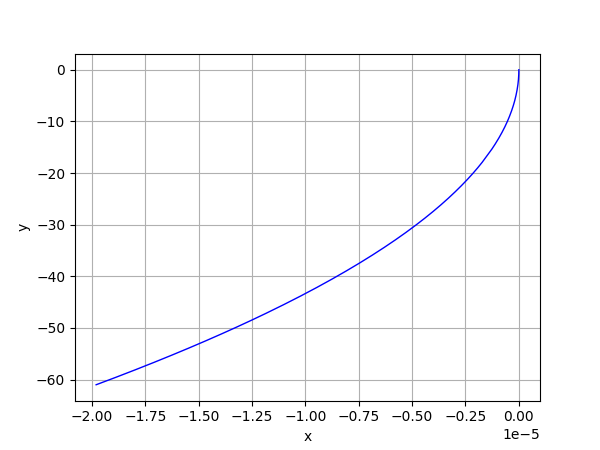
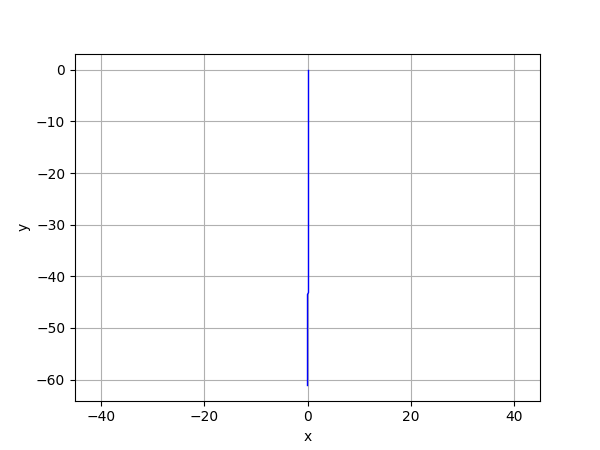
Primeira versão "funcional"

diff --git a/Model.py b/Model.py
@@ -1,29 +1,165 @@
-from math import cos, sin, tan
+import numpy as np
+from scipy.integrate import odeint
+from pylab import figure, plot, xlabel, ylabel, grid, legend, title, savefig, axis
+from matplotlib.font_manager import FontProperties
 
-from libs import normalise_angle
+counter = 0
 
+# non-linear lateral bicycle model
+class NonLinearBycicle():
+    def __init__(self, parameters, val_0):
+        self.max_steer = np.radians(parameters[0])   
+        self.m = parameters[1]             
+        self.Iz = parameters[2]            
+        self.lf = parameters[3]
+        self.lr = parameters[4]
+        self.Lw = parameters[5]
+        self.r = parameters[6]
+        self.mi = parameters[7]
+        self.C_tau = parameters[8]
+        self.C_alpha = parameters[9]
+        self.Fz = parameters[10]
+        self.min_v = parameters[11]
+        self.throttle2omega = parameters[12]
 
-class KinematicBicycleModel:
-    def __init__(self, wheelbase: float, max_steer: float, delta_time: float=0.05): #objeto
-
-        self.delta_time = delta_time
-        self.wheelbase = wheelbase
-        self.max_steer = max_steer
-
-
-    def update(self, x: float, y: float, yaw: float, velocity: float, acceleration: float, steering_angle: float) -> tuple[float, ...]:
+        self.x = val_0[0]
+        self.y = val_0[1]
+        self.psi = val_0[2]
+        self.x_p = val_0[3]
+        self.y_p = val_0[4]
+        self.psi_p = val_0[5]
+        self.x_pp = val_0[6]
+        self.y_pp = val_0[7]
+        self.psi_pp = val_0[8]
+        self.delta_p = val_0[9]
+        self.throttle = val_0[10]
         
-        new_velocity = velocity + self.delta_time * acceleration
+        self.delta_old = self.delta_p
 
-        # Limit steering angle to physical vehicle limits       
-        steering_angle = -self.max_steer if steering_angle < -self.max_steer else self.max_steer if steering_angle > self.max_steer else steering_angle
+        self.f_w = wheel(self.lf, 0.0, self.mi, self.r, self.mi, self.C_tau, self.C_alpha, self.Fz, self.throttle2omega)
+        self.r_w = wheel(0.0, self.lr, self.mi, self.r, self.mi, self.C_tau, self.C_alpha, self.Fz, self.throttle2omega)
+        self.f_w.update(self.throttle[0], self.delta_p, self.psi_p)
+        self.r_w.update(self.throttle[0], 0.0, self.psi_p)    
 
-        # Compute the angular velocity
-        angular_velocity = new_velocity*tan(steering_angle) / self.wheelbase
+    def run(self, throttle, delta, t, ode_p):
+        counter = 0.0
+        abserr, relerr, _, _ = ode_p
 
-        # Compute the final state using the discrete time model
-        new_x   = x + velocity*cos(yaw)*self.delta_time
-        new_y   = y + velocity*sin(yaw)*self.delta_time
-        new_yaw = normalise_angle(yaw + angular_velocity*self.delta_time)
-        
-        return new_x, new_y, new_yaw, new_velocity, steering_angle, angular_velocity
+        delta = np.clip(delta, -self.max_steer, self.max_steer)
+  
+        #self.x_pp = (self.f_w.Fx + self.r_w.Fx)/self.m + self.psi_p*self.y_p
+        #self.y_pp = (self.f_w.Fy + self.r_w.Fy)/self.m + self.psi_p*self.x_p
+        #self.psi_pp = (self.lf*self.f_w.Fy - self.lr*self.r_w.Fy)/self.Iz
+        #self.delta_p = self.delta_old - delta
+        #self.delta_old = delta
+
+        coef = [self.f_w, self.r_w, self.m, self.Iz, throttle, delta]
+        val_0 = [self.x_p, self.x_pp, self.y_p, self.y_pp, self.psi_p, self.psi_pp]
+
+        # Call the ODE solver.
+        wsol = odeint(vectorfield, val_0, t, args=(coef,),
+                    atol=abserr, rtol=relerr)
+
+        with open('sim.dat', 'w') as f:
+            # Print & save the solution.
+            for t1, w1 in zip(t, wsol):
+                print(t1, w1[0], w1[1], w1[2], w1[3], w1[4], w1[5], file=f)
+
+    def plot(self):
+        t, x, xp, y, yp, psi, psip= np.loadtxt('sim.dat', unpack=True)
+
+        figure(1, figsize=(6, 4.5))
+
+        xlabel('x')
+        ylabel('y')
+        grid(True)
+        lw = 1
+        axis('equal')
+
+        plot(x, y, 'b', linewidth=lw)
+        savefig('sim.png', dpi=100)
+
+class wheel():
+    def __init__(self, lf, lr, Lw, r, mi, C_tau, C_alpha, Fz, throttle2omega):
+        self.lf = lf
+        self.lr = lr
+        self.Lw = Lw
+        self.r = r
+        self.mi = mi
+        self.C_tau = C_tau
+        self.C_alpha = C_alpha
+        self.Fz = Fz
+        self.throttle2omega = throttle2omega
+
+    def update(self, throttle, delta, psi_p):
+        omega = self.throttle2omega*throttle
+        Vx = omega*self.r
+        Vy = omega*self.r
+
+        if throttle > 0:
+            tau = (self.r*omega - Vx)/(self.r*Vx)
+        if throttle <= 0:
+            tau = self.r*omega - Vx/np.abs(Vx)
+
+        if(self.lr != 0):
+            signal = -1
+        elif(self.lf != 0):
+            signal = 1
+
+        numerador = Vy + self.lf * psi_p - self.lr * psi_p
+        denominador = Vx + signal*self.Lw/2 * psi_p
+
+        theta_V = np.arctan(numerador/denominador)
+        alpha = delta - theta_V
+
+        C_lambda = (self.mi * self.Fz*(1+tau))/(2*np.sqrt(self.C_tau*tau)**2 + self.C_alpha*np.tan(alpha)**2) 
+        if C_lambda < 1:
+            f_C_lambda = (2-C_lambda)*C_lambda
+        else:
+            f_C_lambda = 1 
+
+        Fxp = self.C_tau *(tau/(1-tau))*f_C_lambda
+        Fyp = self.C_alpha*(np.tan(alpha)/(1-tau))*f_C_lambda
+
+        self.Fx = Fxp*np.cos(delta) - Fyp*np.sin(delta)
+        self.Fy = Fxp*np.sin(delta) + Fyp*np.cos(delta)
+        print(self.Fx, self.Fy)
+
+def vectorfield(w, t, coef):
+    """
+    Defines the differential equations for the coupled system.
+
+    Arguments:
+        w :  vector of the state variables:
+                  w = [x_p, x_pp, y_p, y_pp, psi_p, psi_pp]
+        t :  counter
+        p :  vector of the parameters:
+                  p = [Fxf, Fxr, Fyf, Fyr, lf, lr, m, Iz]
+    """
+    x, xp, y, yp, psi, psip = w
+    f_w, r_w, m, Iz, throttle, delta = coef
+
+    global counter 
+    print(counter)
+    counter = counter + 1
+
+    f_w.update(throttle[counter], delta[counter], psip)
+    r_w.update(throttle[counter], 0.0, psip)    
+
+    Fxf = f_w.Fx
+    Fyf = f_w.Fy
+    Fxr = r_w.Fx
+    Fyr = r_w.Fy
+    lf = f_w.lf
+    lr = r_w.lr
+
+    # Create f = (x',xp',y',yp',psi',psip'):
+    f = [xp,
+         (Fxf + Fxr)/m + psip*yp,
+         yp,
+         (Fyf + Fyr)/m + psip*xp,
+         psip,
+         (lf*Fyf - lr*Fyr)*Iz]
+    print(f)
+    return f
+    

diff --git a/model.py b/model.py
@@ -103,14 +103,14 @@ class wheel():
 
         if(self.lr != 0):
             signal = -1
-        if(self.lf != 0):
+        elif(self.lf != 0):
             signal = 1
 
         numerador = Vy + self.lf * psi_p - self.lr * psi_p
         denominador = Vx + signal*self.Lw/2 * psi_p
 
-        self.theta_V = np.arctan(numerador/denominador)
-        alpha = delta - self.theta_V
+        theta_V = np.arctan(numerador/denominador)
+        alpha = delta - theta_V
 
         C_lambda = (self.mi * self.Fz*(1+tau))/(2*np.sqrt(self.C_tau*tau)**2 + self.C_alpha*np.tan(alpha)**2) 
         if C_lambda < 1:
@@ -123,6 +123,7 @@ class wheel():
 
         self.Fx = Fxp*np.cos(delta) - Fyp*np.sin(delta)
         self.Fy = Fxp*np.sin(delta) + Fyp*np.cos(delta)
+        print(self.Fx, self.Fy)
 
 def vectorfield(w, t, coef):
     """
@@ -139,6 +140,7 @@ def vectorfield(w, t, coef):
     f_w, r_w, m, Iz, throttle, delta = coef
 
     global counter 
+    print(counter)
     counter = counter + 1
 
     f_w.update(throttle[counter], delta[counter], psip)
@@ -158,5 +160,6 @@ def vectorfield(w, t, coef):
          (Fyf + Fyr)/m + psip*xp,
          psip,
          (lf*Fyf - lr*Fyr)*Iz]
+    print(f)
     return f
     

diff --git a/main.py b/main.py
@@ -41,6 +41,7 @@ throttle = 0.0
 t = [stoptime * float(i) / (numpoints - 1) for i in range(numpoints)]
 throttle = model.np.ones(len(t))
 delta = model.np.zeros(len(t))
+delta[round(len(t)/2):round(len(t)/2+len(t)/4)] = 20
 
 # Pack up the parameters and initial conditions:
 p = [max_steer_angle, m, Iz, lf, lr, Lw, r, mi, C_tau, C_alpha, Fz, min_v, throttle2omega]
